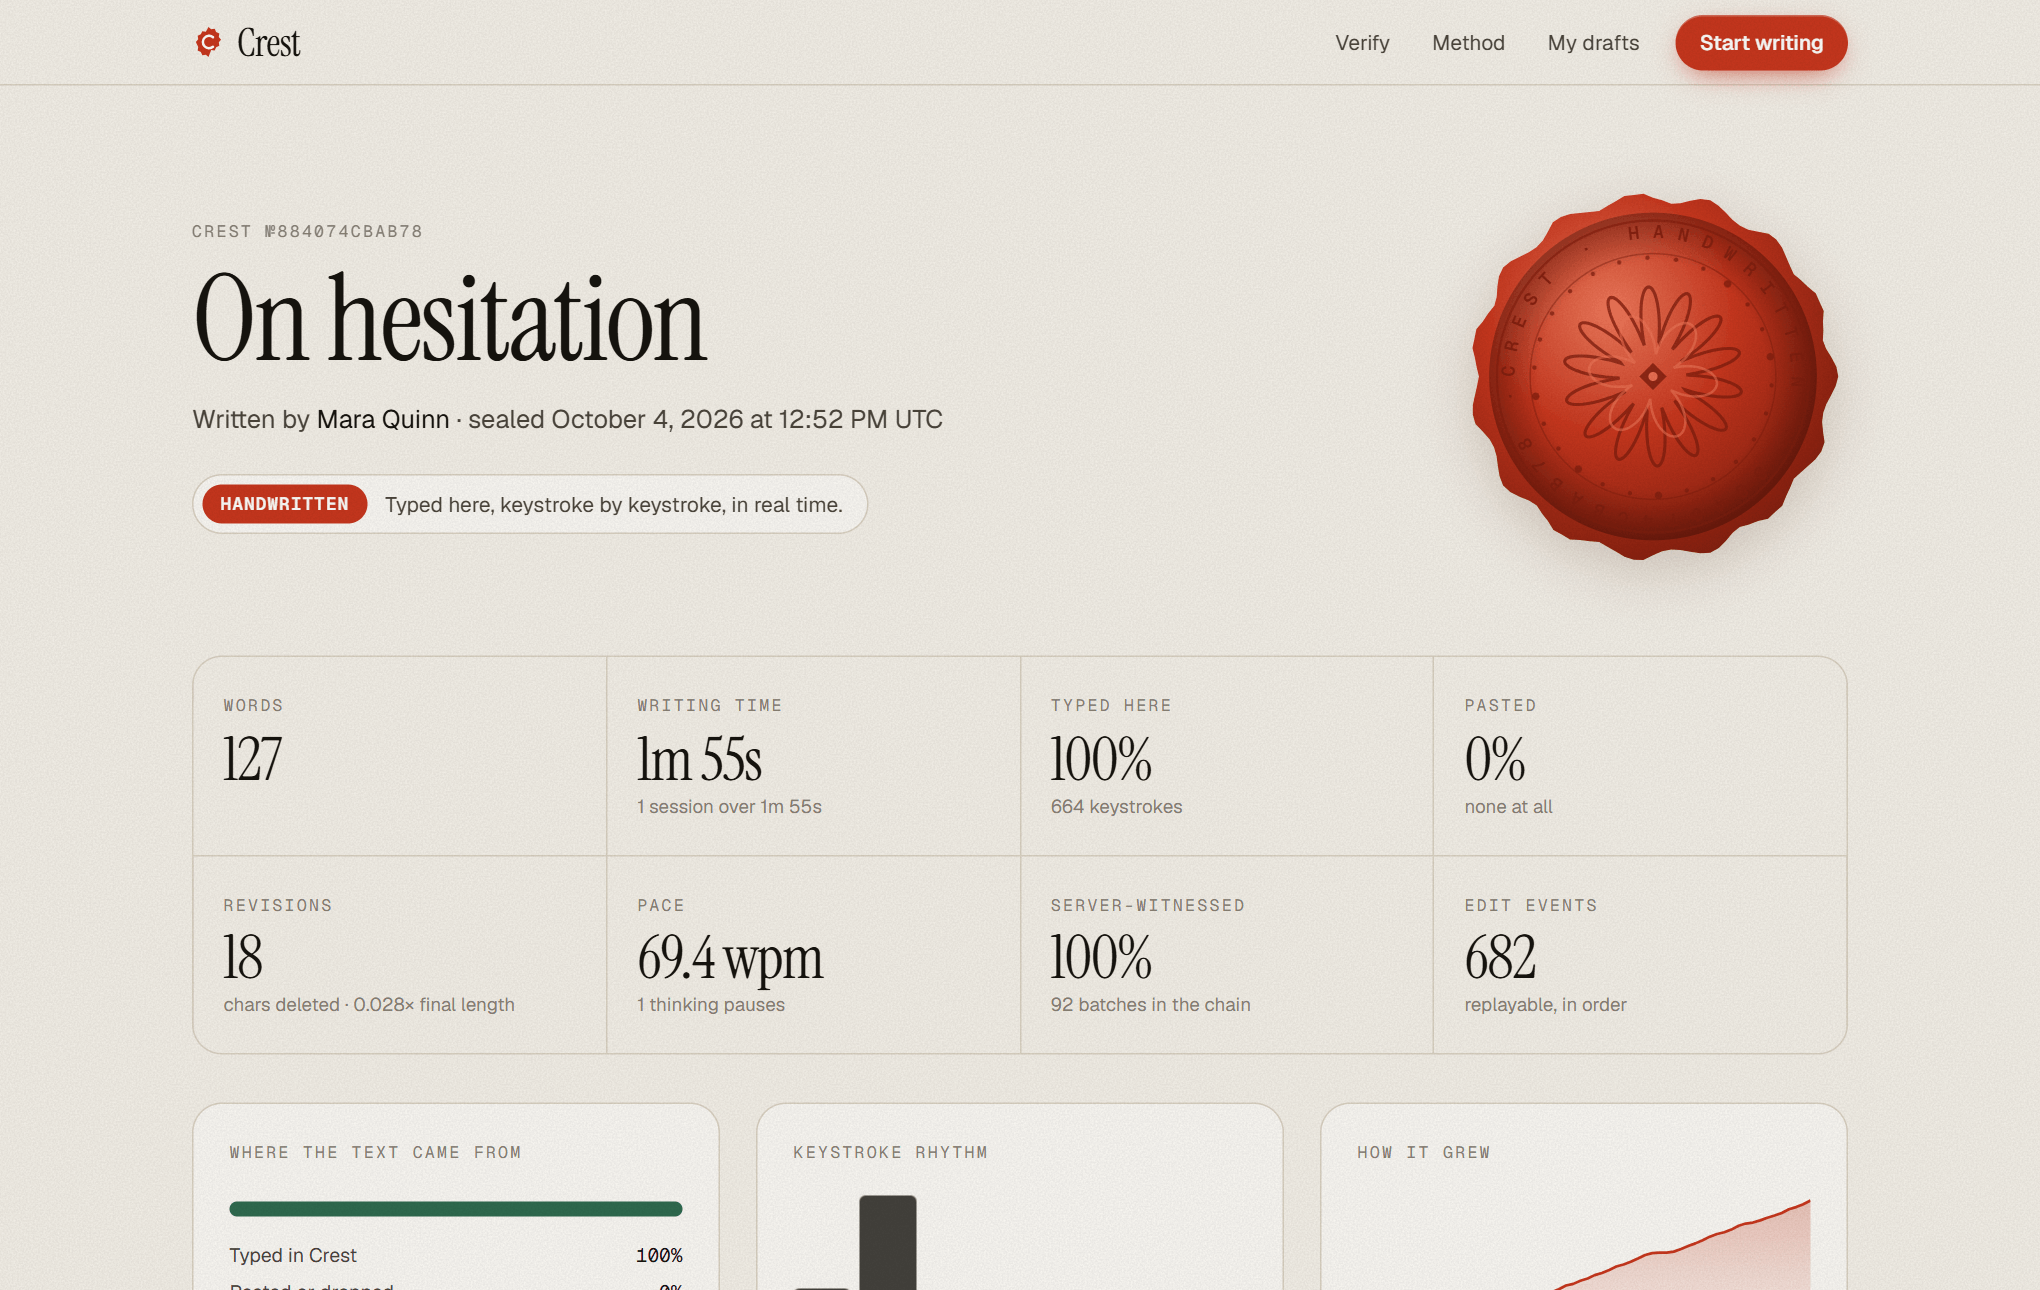
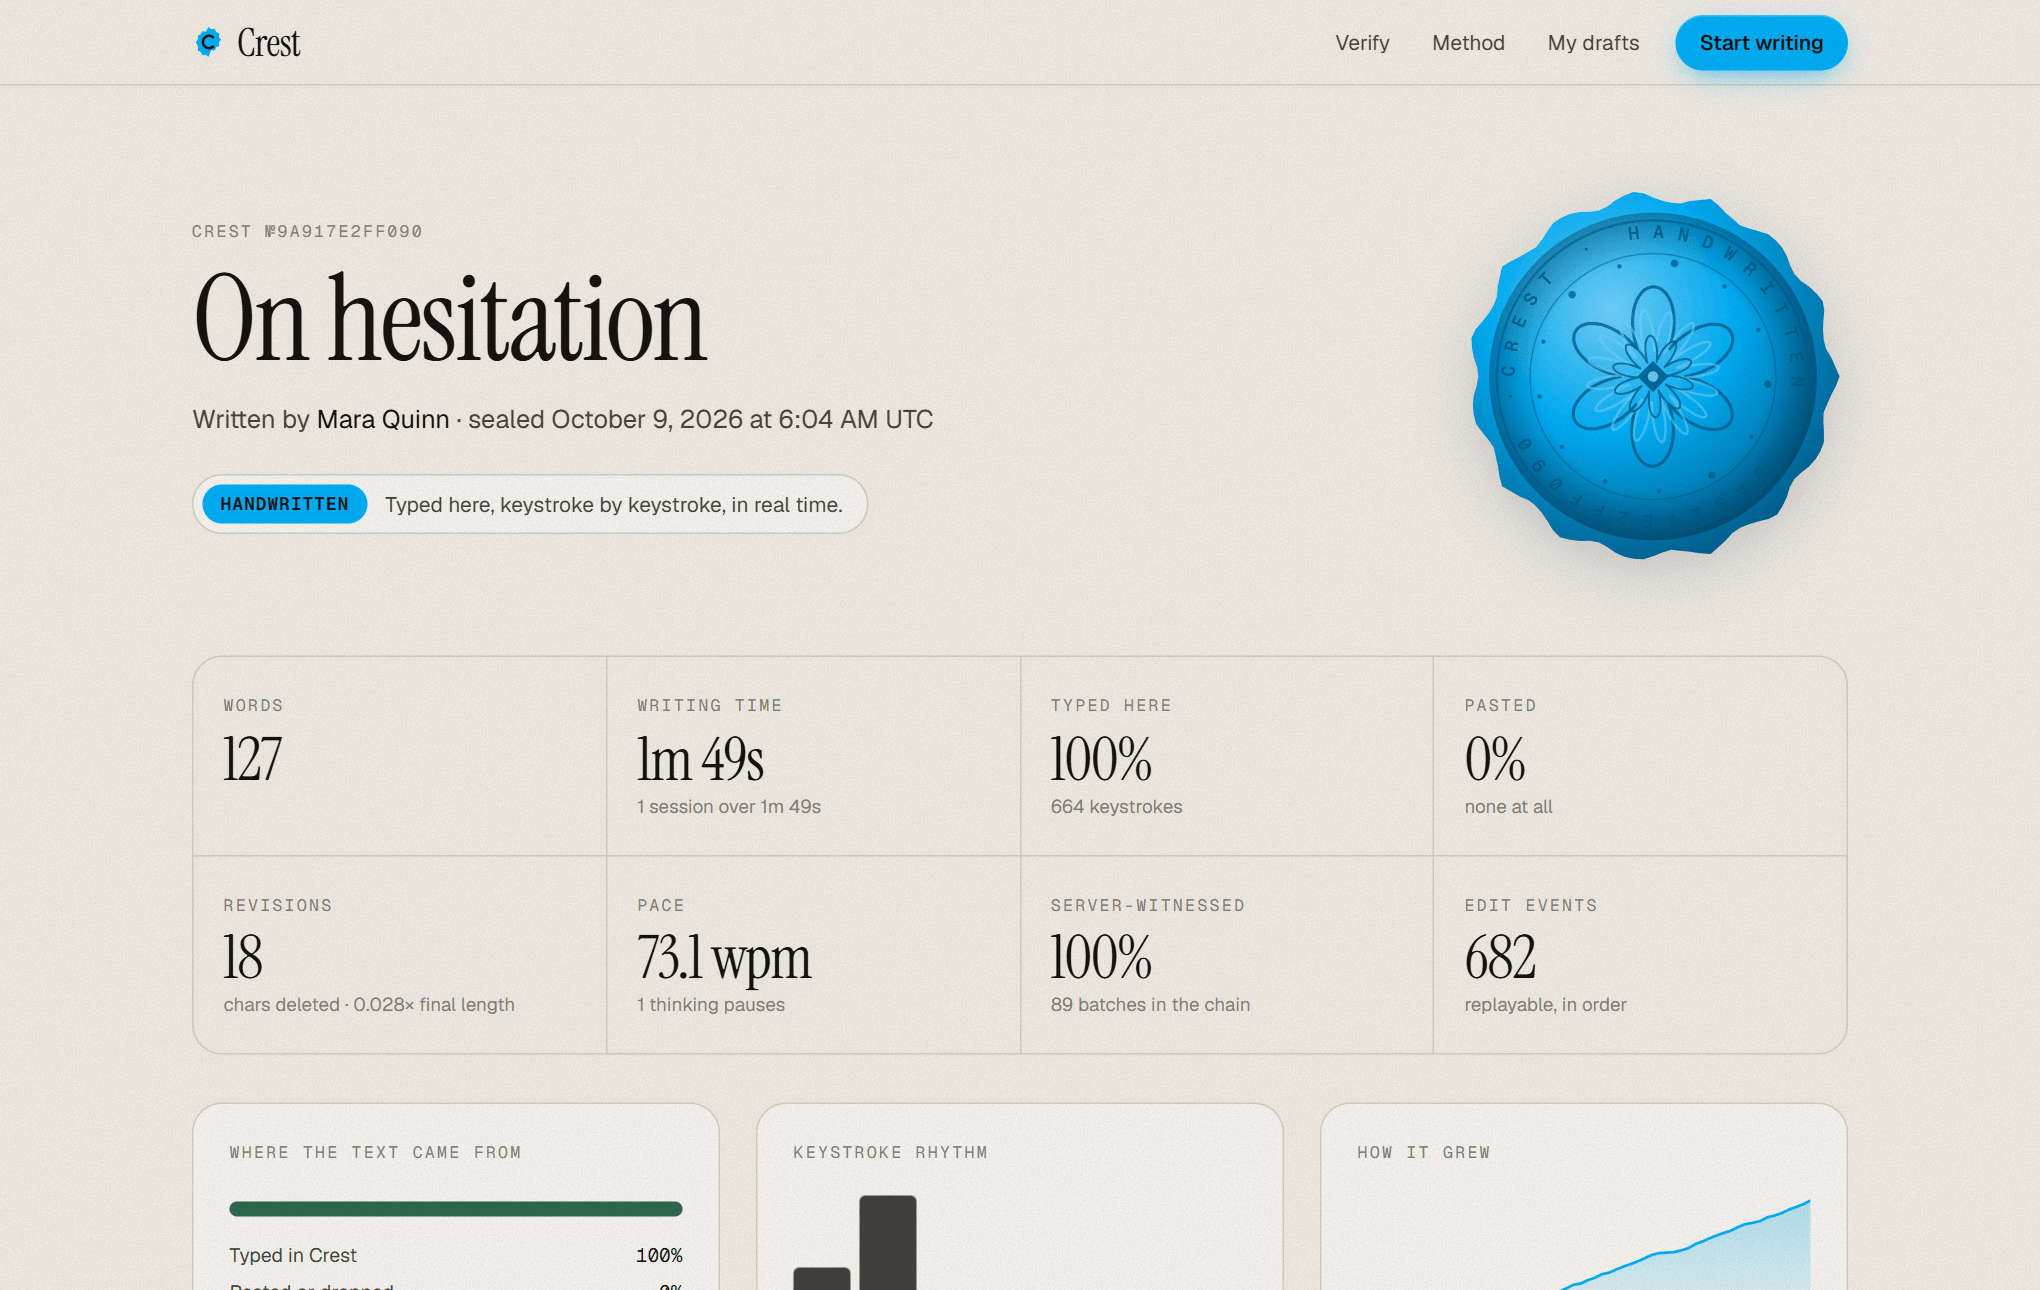
fix: changes color theme and fixed readme

diff --git a/README.md b/README.md
@@ -13,7 +13,7 @@
   <img alt="PostgreSQL 17" src="https://img.shields.io/badge/PostgreSQL-17-336791?logo=postgresql&logoColor=white">
   <img alt="TypeScript" src="https://img.shields.io/badge/TypeScript-5-3178c6?logo=typescript&logoColor=white">
   <img alt="Chrome MV3" src="https://img.shields.io/badge/Chrome%20extension-MV3-4285f4?logo=googlechrome&logoColor=white">
-  <img alt="Ed25519" src="https://img.shields.io/badge/signatures-Ed25519-c8371e">
+  <img alt="Ed25519" src="https://img.shields.io/badge/signatures-Ed25519-00b1fa">
 </p>
 
 ---
